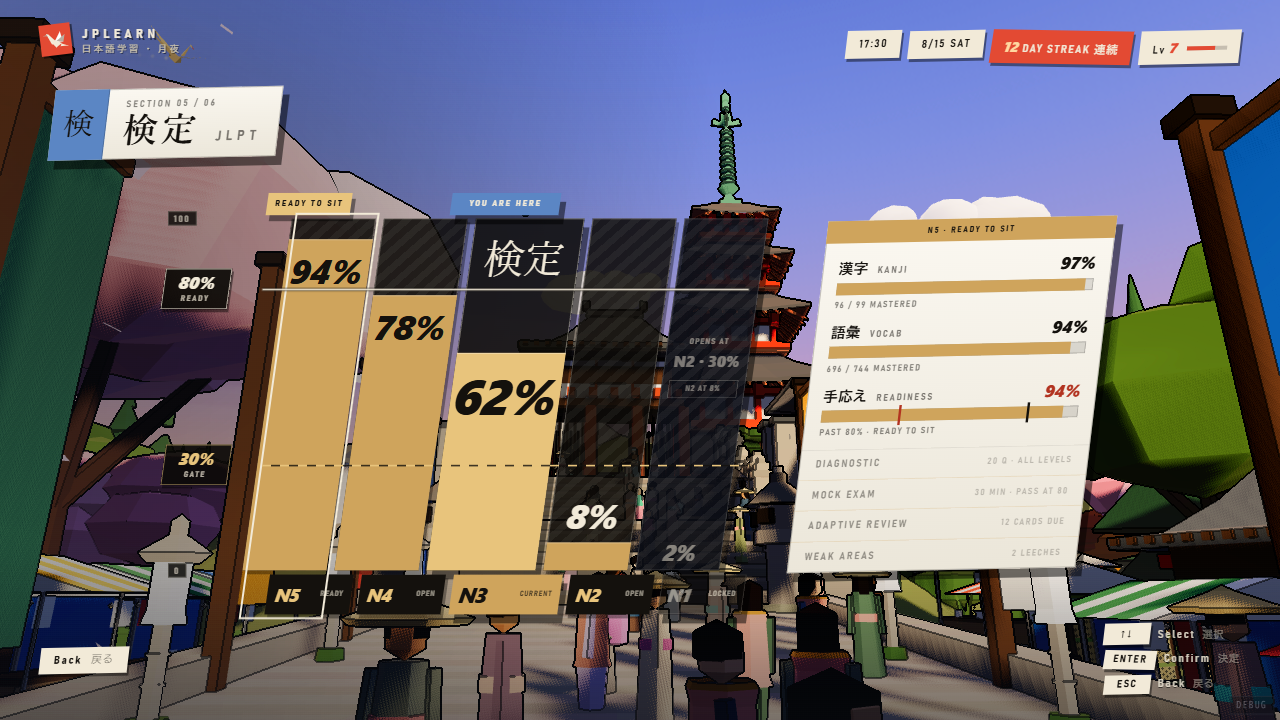
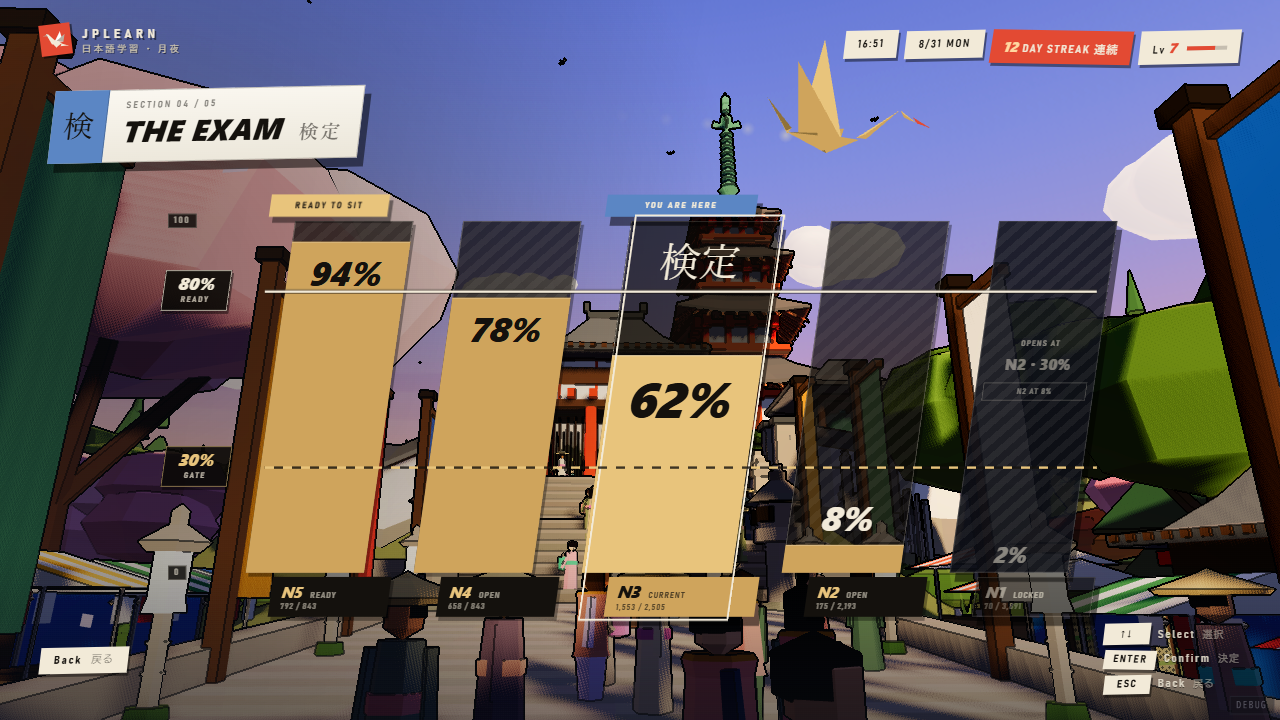
docs(design-system): the rung, open and shut, and the ascent's problem closed
Sixteen screens. The Exam's level three joins in both its states, and the ascent's
figure loses its HAS AN OPEN PROBLEM tag — the panel that was a level three inside a
level two is a screen now, so the problem the card has flagged since the contract
landed is the thing this change fixed.

Two notes worth keeping because measurement changed the answer, not taste:

- The freed width went into the gaps, not only into the bars. At 150 wide with 9
  between, five 352-tall columns run unbroken across the stage and the valley stops
  existing between the moats. 118 with 50 between keeps both.
- The Exam's level three is the one screen carrying two shapes — a dashboard with a
  set of peers at its foot — and the card now says that is the exception rather than
  letting the four-shapes rule quietly acquire a fifth.

diff --git a/mockups/menu-concepts/design-system/components/screens.html b/mockups/menu-concepts/design-system/components/screens.html
@@ -1,7 +1,7 @@
-<!-- @dsCard group="Components" name="The screens" subtitle="Fourteen screens across three levels, each a real 1280×720 plate" width="1360" height="12300" -->
+<!-- @dsCard group="Components" name="The screens" subtitle="Sixteen screens across three levels, each a real 1280×720 plate" width="1360" height="12300" -->
 <!doctype html>
 <meta charset="utf-8">
-<title>The fourteen screens that exist</title>
+<title>The sixteen screens that exist</title>
 <style>
   :root {
     --washi: #f2ead8; --ink: #14110d; --hi: #e34a33; --gold: #cfa45c; --gold-hi: #e8c47c;
@@ -47,7 +47,7 @@
   td { color: rgba(242,234,216,0.76); }
 </style>
 
-<h1>The fourteen screens that exist</h1>
+<h1>The sixteen screens that exist</h1>
 <p class="lede">
   <code>built.html</code> documents five OBJECTS — the menu row, the road tablet, the hero card, the
   heading slab, the caption chip. It is still correct about those. This card is which SCREENS they
@@ -55,11 +55,11 @@
 </p>
 <p class="lede">
   <b>Every plate below is the real mockup at 1280&times;720 with the clock frozen at 17:30.</b> One
-  hour for all fourteen, so what differs between them is shape rather than lighting — for the ground
+  hour for all sixteen, so what differs between them is shape rather than lighting — for the ground
   each section actually stands on across the day, see <code>foundations/backdrops.html</code>.
 </p>
 <p class="lede">
-  <b>All fourteen sit on the frame contract</b> (<code>foundations/frame-contract.html</code>): the
+  <b>All sixteen sit on the frame contract</b> (<code>foundations/frame-contract.html</code>): the
   drawing inside x&nbsp;160&ndash;1120 / y&nbsp;192&ndash;576, bare valley 160px either side,
   whole-set summaries in the foot band. Read that card before designing a new one — in particular
   the part about skew being paint rather than layout, which is what puts a screen in the moat while
@@ -67,14 +67,15 @@
 </p>
 
 <div class="note">
-  <b>Fourteen screens, three levels.</b>
+  <b>Sixteen screens, three levels.</b>
   <table>
     <tr><th>LEVEL 1</th><td>the standing menu — the hero, and five section rows beneath it</td></tr>
     <tr><th>LEVEL 2</th><td>six: The Path's path &middot; Practice's lanes &middot; The World's
       lanes &middot; The Exam's ascent &middot; You's ledger &middot; and the daily road, which is
       reached from inside Practice rather than from a row of its own</td></tr>
-    <tr><th>LEVEL 3</th><td>seven: the deck &middot; the feed &middot; the cleared pile &middot;
-      the drill modes &middot; the daily road &middot; the library &middot; the scene picker</td></tr>
+    <tr><th>LEVEL 3</th><td>nine: the deck &middot; the feed &middot; the cleared pile &middot;
+      the drill modes &middot; the daily road &middot; the library &middot; the scene picker &middot;
+      and one JLPT level, open or shut</td></tr>
   </table>
   <p style="margin:9px 0 0"><b>Two sections have lanes now, and they are the same component.</b>
   Practice's three and The World's two are one card doing one job — "which of these do you want to
@@ -88,7 +89,8 @@
   <b>Chain</b> — ordered and gated, exactly one item open. <b>Peers</b> — a small unordered set, all
   available. <b>List</b> — a large flat set, all available, no order. <b>Dashboard</b> — figures you
   read, not places you go. Choosing the wrong one is the mistake this menu has made twice, and
-  both are now corrected.
+  both are now corrected. One screen carries two shapes &mdash; The Exam's level three is a
+  dashboard with a set of peers at its foot &mdash; and that is the exception, not the pattern.
 </p>
 
 <figure>
@@ -232,16 +234,67 @@
 <figure>
   <img src="../assets/screen-ascent.png" alt="JLPT, the ascent">
   <figcaption>
-    <div class="name"><b>THE LADDER</b><i>JLPT &middot; LEVEL 2 &middot; 5 LEVELS</i><u>chain</u>
-      <u class="open">HAS AN OPEN PROBLEM</u></div>
+    <div class="name"><b>THE LADDER</b><i>THE EXAM &middot; LEVEL 2 &middot; 5 LEVELS</i><u>chain</u></div>
     <p>Five columns whose HEIGHT is readiness, a 0&ndash;100 measure at the left, and both thresholds
       drawn straight across all five as deliberately different marks — 30% dashed (opens the next
       level), 80% solid (ready to sit). Classes are <code>.as-*</code>.</p>
-    <p class="warn">This screen paid the most for the contract. Measure, columns and detail panel
-      were three columns of demand coming to 1230px painted, and they had to become 960: the panel
-      went 340&rarr;288, the columns 810&rarr;530, and the plinths lost their mastered counts. It is
-      also the only section with no level three — the panel is doing a level three's job from inside
-      level two. See the brief.</p>
+    <p><b>This screen used to have an open problem and no longer does.</b> Its right-hand detail
+      panel was a level three living inside a level two — the only screen here doing both jobs at
+      once — and the contract charged it for that: measure, columns and panel came to 1230px of
+      demand that had to become 960, so the panel was squeezed 340&rarr;288 and the plinths dropped
+      their mastered counts. The panel is a screen now, and this is the ladder, the measure and the
+      two thresholds. One cursor instead of two.</p>
+    <p><b>The freed width went into the GAPS, not only into the bars</b>, and that was measured
+      rather than assumed. Laid first at 150 wide with 9 between, five 352-tall columns run
+      unbroken from 270 to 1094 and the valley stops existing between the moats — the one thing
+      the contract says the drawing must not spend. At 118 with 50 between, and a lighter track,
+      it is still a chart and there is still a village behind it. The plinths took their three
+      facts back on two lines rather than one.</p>
+  </figcaption>
+</figure>
+
+<figure>
+  <img src="../assets/screen-level.png" alt="The Exam, one level">
+  <figcaption>
+    <div class="name"><b>THE RUNG</b><i>THE EXAM &middot; LEVEL 3 &middot; 1 LEVEL</i><u>dashboard</u>
+      <u>peers</u></div>
+    <p><b>Two shapes on one screen, deliberately.</b> The reading is a dashboard — figures you look
+      at, with nothing inside a percentage to open. The four modes are peers — a small unordered set,
+      all available. They are drawn as different objects because they are different things, and this
+      is the only screen in the set that carries both. Classes are <code>.lv-*</code>, and the split
+      bars are the ascent's own <code>.as-split</code> moved whole rather than redrawn.</p>
+    <p>It answers three questions in the order someone deciding whether to book an exam asks them.
+      <b>How ready am I, and out of what</b> — kanji and vocabulary against the 80% line.
+      <b>What would happen if I sat it.</b> <b>What do I do about it</b> — the four modes, each
+      saying what it is FOR, because two of them move the readiness figure, one measures it, one
+      finds which level to aim at, and the card counts never said which was which. Adaptive Review
+      carries the vermilion whether or not it is selected: which of the four you owe is a fact about
+      the queue, not about where the cursor is.</p>
+    <p><b>The middle question is the new part, and the app can only half answer it.</b>
+      <code>project_mock_score</code> scales a mock into the vocabulary-and-grammar section and
+      stops — <code>listening_projected</code> is always None and <code>overall_passes</code> always
+      False, because there is no listening content. So the screen draws the section it can project,
+      hatches the one it cannot, and says the total is therefore not something it can predict. An
+      absence is drawn as a hatch and an em dash, never as a zero: "you scored nothing" is a
+      different and untrue claim.</p>
+    <p><b>Beneath that is the sentence this screen exists for</b>, and nothing anywhere else in the
+      app says it: the vocab-and-grammar section is a separate gate, so a total above the pass mark
+      with that section below its own mark is still a fail.</p>
+  </figcaption>
+</figure>
+
+<figure>
+  <img src="../assets/screen-level-locked.png" alt="The Exam, a locked level">
+  <figcaption>
+    <div class="name"><b>THE RUNG, SHUT</b><i>THE EXAM &middot; LEVEL 3 &middot; LOCKED</i><u>dashboard</u></div>
+    <p><b>A locked level still opens and still reads.</b> This is the one place in the menu where
+      Enter on something shut is not refused, and deliberately: what a locked level needs to tell you
+      is what is gating it and how far off that is, which is a screenful, not a flash. The refusal
+      moved inward to the four modes, where it belongs — you can read N1, you cannot sit it.</p>
+    <p>Everything keeps its size and loses only its brightness, which is the same law the locked lane
+      in The World obeys. The gate is named in the readiness row's own caption
+      (&ldquo;N2 must reach 30% to open this&rdquo;), and the pass marks are still stated — they are
+      true of the exam whether or not you can sit it yet.</p>
   </figcaption>
 </figure>
 

diff --git a/mockups/menu-concepts/PLAN-navigation.md b/mockups/menu-concepts/PLAN-navigation.md
@@ -51,7 +51,12 @@ Plus **Look it up** 引く — an overlay on one key from any level, not a secti
   is GRAMMAR rather than READING, and there is a six-step window in which The World is open and
   half of it is not. That window is a real state most early accounts will sit in, so the Read lane
   draws it (press `L` on the screen) rather than the mockup pretending the section arrives whole.
-- **JLPT → The Exam.** Same shape, gains the level three it never had.
+- **JLPT → The Exam.** Same shape, gains the level three it never had. **Built 2026-08-31**,
+  and the ascent gave up the detail panel that was doing a level three's job from inside level
+  two. The new screen carries the fact nothing in the app stated: the vocabulary-and-grammar
+  section is a separate gate, so a total above the pass mark with that section below 19 (or 38
+  at N4/N5) is still a fail. It also draws what the app *cannot* project — there is no
+  listening content, so `overall_passes` is always False and the total is hatched, not zeroed.
 - **RECORDS → You.** Gains achievements, history and settings.
 - **New: Look it up.** `dictionary-search`, `kanji-detail`, `lookup-sentence`, `assistant-chat`
   and `assistant-chat-ocr` all exist on the bridge and appear nowhere in the menu.
@@ -67,7 +72,7 @@ streak, XP, level. *Built; the hero and the progressive reveal are new.*
 | The Path | the journey, 16 milestones **[built]** | a deck's blocks **[built]** · today's words **[built]** · an unlock moment **[new]** | the study session *(in the app)* |
 | Practice | three lanes **[new]** | review **[new]** · drill picker **[briefed]** · daily games **[built]** | the game runs *(in the app)* |
 | The World | two lanes **[built]** | the library **[built]** · pick a scene **[built]** | the reader · the conversation *(in the app)* |
-| The Exam | the ascent **[built]** | a level **[briefed]** | the exam runs *(in the app)* |
+| The Exam | the ascent **[built]** | a level **[built]** | the exam runs *(in the app)* |
 | You | the ledger **[built]** | achievements · history · settings **[to design]** | — |
 
 Everything marked *(in the app)* exists as a React feature today and is not a menu screen —
